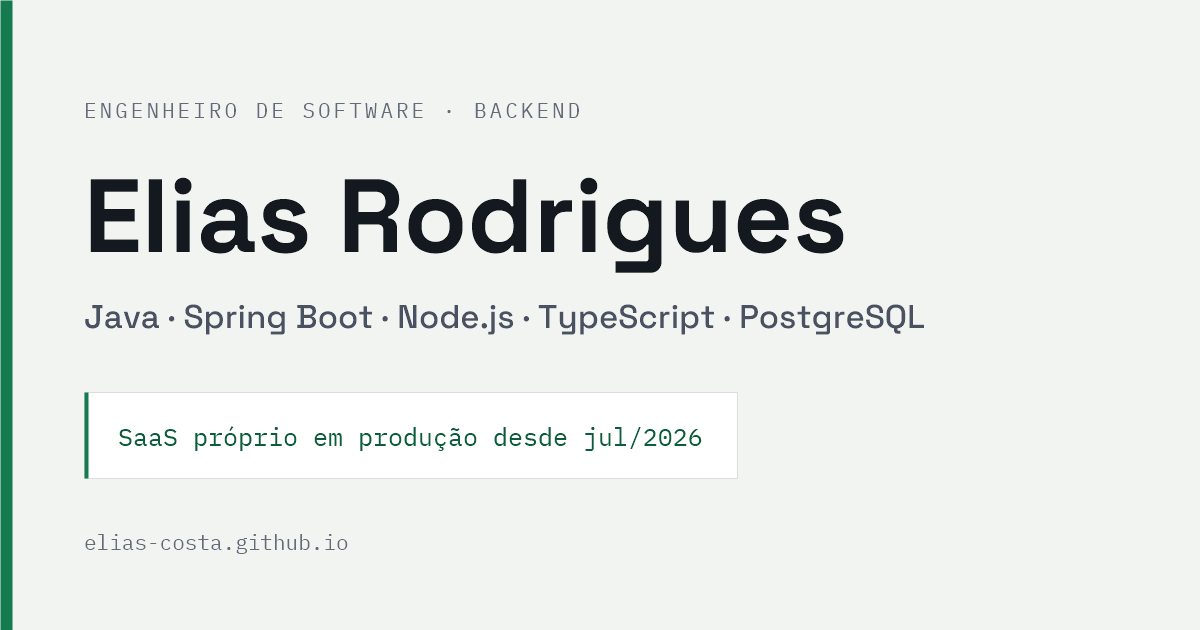
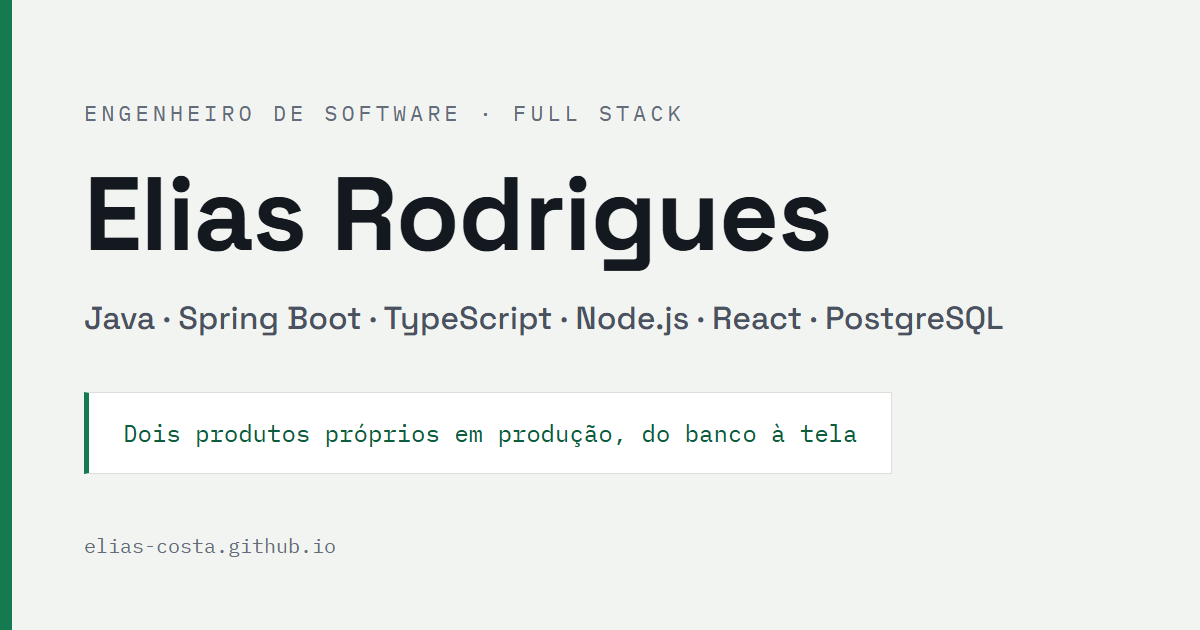
feat: posicionamento full stack, case do Fichinhas e card do invoice-microservices

diff --git a/index.html b/index.html
@@ -3,8 +3,8 @@
 <head>
 <meta charset="UTF-8">
 <meta name="viewport" content="width=device-width, initial-scale=1.0">
-<title>Elias Rodrigues — Engenheiro de Software, Backend</title>
-<meta name="description" content="Elias Rodrigues, engenheiro de software backend. Java, Spring Boot, Node.js, TypeScript e PostgreSQL. Sistemas em produção. Disponível para início imediato em posições remotas.">
+<title>Elias Rodrigues — Engenheiro de Software, Full Stack</title>
+<meta name="description" content="Elias Rodrigues, engenheiro de software full stack. Java, Spring Boot, TypeScript, Node.js, React e PostgreSQL. Produtos completos em produção, do banco à tela. Disponível para início imediato em posições remotas.">
 <link rel="canonical" href="https://elias-costa.github.io/">
 
 <!-- Open Graph / Twitter: controla o preview quando o link é compartilhado (LinkedIn, WhatsApp) -->
@@ -12,17 +12,17 @@
 <meta property="og:locale" content="pt_BR">
 <meta property="og:url" content="https://elias-costa.github.io/">
 <meta property="og:site_name" content="Elias Rodrigues">
-<meta property="og:title" content="Elias Rodrigues — Engenheiro de Software, Backend">
-<meta property="og:description" content="Java, Spring Boot, Node.js, TypeScript e PostgreSQL. APIs e sistemas em produção, um SaaS próprio no ar. Disponível para início imediato, remoto.">
+<meta property="og:title" content="Elias Rodrigues — Engenheiro de Software, Full Stack">
+<meta property="og:description" content="Java, Spring Boot, TypeScript, Node.js, React e PostgreSQL. Produtos completos em produção, do banco à tela — um SaaS e um PWA offline-first próprios. Disponível para início imediato, remoto.">
 <!-- og:image precisa de URL absoluta: raspador de rede social não resolve caminho relativo -->
 <meta property="og:image" content="https://elias-costa.github.io/og-image.png">
 <meta property="og:image:type" content="image/png">
 <meta property="og:image:width" content="1200">
 <meta property="og:image:height" content="630">
-<meta property="og:image:alt" content="Elias Rodrigues — Engenheiro de Software, Backend. Java, Spring Boot, Node.js, TypeScript e PostgreSQL.">
+<meta property="og:image:alt" content="Elias Rodrigues — Engenheiro de Software, Full Stack. Java, Spring Boot, TypeScript, Node.js, React e PostgreSQL.">
 <meta name="twitter:card" content="summary_large_image">
-<meta name="twitter:title" content="Elias Rodrigues — Engenheiro de Software, Backend">
-<meta name="twitter:description" content="Java, Spring Boot, Node.js, TypeScript e PostgreSQL. APIs e sistemas em produção, um SaaS próprio no ar.">
+<meta name="twitter:title" content="Elias Rodrigues — Engenheiro de Software, Full Stack">
+<meta name="twitter:description" content="Java, Spring Boot, TypeScript, Node.js, React e PostgreSQL. Produtos completos em produção, do banco à tela — um SaaS e um PWA offline-first próprios.">
 
 <!-- JSON-LD: dados estruturados para o Google ligar nome, cargo, formação e perfis
      (LinkedIn, GitHub) a este site na busca pelo nome. O nome de registro é o
@@ -42,8 +42,8 @@
       "url": "https://elias-costa.github.io/",
       "image": "https://elias-costa.github.io/og-image.png",
       "email": "mailto:ecrprofessional@gmail.com",
-      "jobTitle": "Engenheiro de Software Backend",
-      "description": "Engenheiro de software backend. Java, Spring Boot, Node.js, TypeScript e PostgreSQL. Bacharel em Ciência da Computação pela UFS, mantém o SiteHealth, um SaaS de monitoramento de sites em produção. Disponível para início imediato em posições remotas.",
+      "jobTitle": "Engenheiro de Software Full Stack",
+      "description": "Engenheiro de software full stack. Java, Spring Boot, TypeScript, Node.js, React e PostgreSQL. Bacharel em Ciência da Computação pela UFS, mantém produtos próprios em produção: o SiteHealth, SaaS de monitoramento de sites, e o Fichinhas, PWA offline-first de controle de fiado. Disponível para início imediato em posições remotas.",
       "address": {
         "@type": "PostalAddress",
         "addressLocality": "Aracaju",
@@ -62,8 +62,9 @@
         "credentialCategory": "certificate"
       },
       "knowsAbout": [
-        "Java", "Spring Boot", "Node.js", "TypeScript", "PostgreSQL", "Python", "FastAPI",
-        "APIs REST", "Row Level Security", "RBAC", "Docker", "AWS", "PyTorch", "Machine Learning"
+        "Java", "Spring Boot", "Node.js", "TypeScript", "React", "Next.js", "PostgreSQL",
+        "Apache Kafka", "Python", "FastAPI", "APIs REST", "Progressive Web Apps", "Offline-first",
+        "Row Level Security", "RBAC", "Microsserviços", "Docker", "AWS", "PyTorch", "Machine Learning"
       ],
       "knowsLanguage": ["pt-BR", "en"],
       "sameAs": [
@@ -88,6 +89,37 @@
       "applicationCategory": "WebApplication",
       "operatingSystem": "Web",
       "description": "SaaS de monitoramento técnico de sites: crawl periódico e relatório por e-mail dos problemas que afetam SEO e experiência do usuário — links e imagens quebrados, conteúdo misto, bloqueio de indexação, certificado e domínio a vencer.",
+      "author": { "@id": "https://elias-costa.github.io/#person" }
+    },
+    {
+      "@type": "SoftwareSourceCode",
+      "@id": "https://github.com/Elias-Costa/controle-estoque-gastos#code",
+      "name": "Fichinhas — controle de fiado offline-first",
+      "codeRepository": "https://github.com/Elias-Costa/controle-estoque-gastos",
+      "programmingLanguage": "TypeScript",
+      "runtimePlatform": "Progressive Web App",
+      "license": "https://opensource.org/licenses/MIT",
+      "description": "PWA offline-first que substitui o caderno de fiado de quem revende cosméticos por conta própria. React, Tailwind, Dexie (IndexedDB) e Supabase; toda escrita nasce no aparelho e sobe por fila idempotente; dinheiro em bigint de centavos; invariantes e isolamento por conta valendo no próprio Postgres.",
+      "author": { "@id": "https://elias-costa.github.io/#person" }
+    },
+    {
+      "@type": "SoftwareSourceCode",
+      "@id": "https://github.com/Elias-Costa/invoice-microservices#code",
+      "name": "invoice-microservices — emissão de notas fiscais em microsserviços",
+      "codeRepository": "https://github.com/Elias-Costa/invoice-microservices",
+      "programmingLanguage": "Java",
+      "runtimePlatform": "Spring Boot 4",
+      "description": "Emissão de notas fiscais em microsserviços: um banco por serviço, Apache Kafka, Saga coordenada por outbox transacional, idempotência HTTP por Idempotency-Key e guarda contra evento reprocessado, provados contra Postgres e Kafka reais via Testcontainers.",
+      "author": { "@id": "https://elias-costa.github.io/#person" }
+    },
+    {
+      "@type": "SoftwareSourceCode",
+      "@id": "https://github.com/Elias-Costa/caixa-simples#code",
+      "name": "Caixa Simples — PDV multi-tenant",
+      "codeRepository": "https://github.com/Elias-Costa/caixa-simples",
+      "programmingLanguage": "Java",
+      "runtimePlatform": "Spring Boot 4",
+      "description": "Sistema de caixa e ponto de venda para pequenos negócios, construído como monolito modular com Spring Modulith e PostgreSQL.",
       "author": { "@id": "https://elias-costa.github.io/#person" }
     },
     {
@@ -134,6 +166,7 @@
       <li><a href="#sobre">Sobre</a></li>
       <li><a href="#experiencia">Experiência</a></li>
       <li><a href="#sitehealth">SiteHealth</a></li>
+      <li><a href="#fichinhas">Fichinhas</a></li>
       <li><a href="#projetos">Projetos</a></li>
       <li><a href="#stack">Stack</a></li>
       <li><a href="#contato">Contato</a></li>
@@ -146,17 +179,17 @@
 
   <section class="hero">
     <div class="wrap">
-      <div class="eyebrow">Engenheiro de Software · Backend</div>
+      <div class="eyebrow">Engenheiro de Software · Full Stack</div>
       <h1>Elias Rodrigues</h1>
-      <p class="role">Java · Spring Boot · Node.js · TypeScript · PostgreSQL</p>
+      <p class="role">Java · Spring Boot · TypeScript · Node.js · React · PostgreSQL</p>
 
-      <div class="signature">SaaS próprio em produção desde jul/2026 <span class="muted">—</span> arquitetura, segurança e operação minhas</div>
-      <p class="sig-caption">SiteHealth · monitoramento técnico de sites</p>
+      <div class="signature">Dois produtos próprios em produção, do banco à tela <span class="muted">—</span> arquitetura e operação minhas</div>
+      <p class="sig-caption">SiteHealth · SaaS de monitoramento de sites &nbsp;·&nbsp; Fichinhas · PWA offline-first de controle de fiado</p>
 
-      <p class="lead">Bacharel em Ciência da Computação pela UFS. Construo APIs e sistemas que rodam em produção — regras de negócio, controle de acesso por papéis, consistência transacional e performance. Disponível para início imediato em posições remotas.</p>
+      <p class="lead">Bacharel em Ciência da Computação pela UFS. Construo produtos completos que rodam em produção — da modelagem do banco e das regras de negócio à interface que o usuário toca. Minha base é backend: controle de acesso por papéis, consistência transacional, performance. Disponível para início imediato em posições remotas.</p>
 
       <div class="cta-row">
-        <a href="#sitehealth" class="btn btn-solid">Ver o projeto em destaque</a>
+        <a href="#sitehealth" class="btn btn-solid">Ver os projetos em destaque</a>
         <a href="#contato" class="btn btn-outline">Contato</a>
       </div>
     </div>
@@ -168,9 +201,9 @@
       <h2>Quem eu sou</h2>
       <div class="sobre-grid">
         <div>
-          <p>Sou bacharel em Ciência da Computação pela Universidade Federal de Sergipe — concluí a grade curricular em julho de 2026 e colo grau em agosto. Meu foco é backend: construí APIs e sistemas em produção com Java, Node.js e Python, com atenção a consistência de dados, controle de acesso e performance.</p>
+          <p>Sou bacharel em Ciência da Computação pela Universidade Federal de Sergipe — colei grau em agosto de 2026. Minha base é backend: construí APIs e sistemas em produção com Java, Node.js e Python, com atenção a consistência de dados, controle de acesso e performance. O frontend veio pelos produtos próprios — Next.js e React no SiteHealth, React e PWA no Fichinhas — e hoje faz parte do que entrego de ponta a ponta.</p>
           <p>Antes disso, passei dois anos como pesquisador de Iniciação Científica (PIBIC) em Machine Learning — implementei e treinei modelos com PyTorch, construí pipelines de dados e sou coautor de artigo publicado na ERBASE 2025. Foi ali que aprendi a medir antes de concluir, hábito que carreguei para o desenvolvimento.</p>
-          <p>Hoje mantenho o SiteHealth, um SaaS que monitora sites e está no ar. É onde tomo as decisões de arquitetura, segurança e operação de ponta a ponta — e onde os erros são meus para descobrir e corrigir.</p>
+          <p>Hoje mantenho dois produtos próprios em produção: o SiteHealth, um SaaS que monitora sites, e o Fichinhas, um PWA offline-first que substituiu o caderno de fiado de uma revendedora. São onde tomo as decisões de produto, arquitetura, segurança, interface e operação de ponta a ponta — e onde os erros são meus para descobrir e corrigir.</p>
         </div>
         <ul class="facts">
           <li><span>Localização</span><span>Aracaju, SE — Brasil</span></li>
@@ -229,7 +262,7 @@
 
   <section id="sitehealth">
     <div class="wrap reveal">
-      <div class="kicker">Projeto em destaque</div>
+      <div class="kicker">Projeto em destaque · SaaS</div>
       <h2>SiteHealth</h2>
 
       <div class="case-head">
@@ -237,12 +270,13 @@
         <span class="badge badge-live">no ar · pré-lançamento</span>
       </div>
 
-      <p class="case-intro">Faz crawl periódico dos sites cadastrados e envia por e-mail um relatório priorizado dos problemas que afetam SEO e experiência do usuário: links e imagens quebrados, conteúdo misto, bloqueio acidental de indexação, certificado e domínio prestes a vencer. É <strong>produto próprio</strong> — eu decido produto, arquitetura, segurança e operação, e é o projeto onde consigo mostrar decisão técnica com evidência, não só código.</p>
+      <p class="case-intro">Faz crawl periódico dos sites cadastrados e envia por e-mail um relatório priorizado dos problemas que afetam SEO e experiência do usuário: links e imagens quebrados, conteúdo misto, bloqueio acidental de indexação, certificado e domínio prestes a vencer. É <strong>produto próprio</strong> — eu decido produto, arquitetura, segurança, interface e operação, e é o projeto onde consigo mostrar decisão técnica com evidência, não só código.</p>
 
       <div class="tags">
-        <span class="tag">Next.js (App Router)</span><span class="tag">TypeScript</span><span class="tag">PostgreSQL</span>
-        <span class="tag">Supabase + RLS</span><span class="tag">Inngest</span><span class="tag">Stripe</span>
-        <span class="tag">Resend</span><span class="tag">Sentry</span><span class="tag">Vercel</span>
+        <span class="tag">Next.js (App Router)</span><span class="tag">React</span><span class="tag">TypeScript</span>
+        <span class="tag">Tailwind CSS</span><span class="tag">PostgreSQL</span><span class="tag">Supabase + RLS</span>
+        <span class="tag">Inngest</span><span class="tag">Stripe</span><span class="tag">Resend</span>
+        <span class="tag">Sentry</span><span class="tag">Vercel</span>
       </div>
 
       <div class="metrics">
@@ -297,10 +331,101 @@
     </div>
   </section>
 
+  <section id="fichinhas">
+    <div class="wrap reveal">
+      <div class="kicker">Projeto em destaque · PWA offline-first</div>
+      <h2>Fichinhas</h2>
+
+      <div class="case-head">
+        <h3>Controle de fiado que substitui o caderno de uma revendedora</h3>
+        <span class="badge badge-live">em uso real · set/2026</span>
+      </div>
+
+      <p class="case-intro">Quem revende cosméticos por conta própria vende fiado e anota num caderno: uma página por cliente, valores descontados conforme o dinheiro chega, contas que não fecham. O Fichinhas é um PWA instalado na tela de início do celular que faz isso funcionar <strong>sem depender de rede</strong> — o sinal falha exatamente quando se está com a cliente na frente, e uma tela de erro ali é o que faz voltar para o papel. Produto próprio, do banco à tela, construído para uma revendedora real: as telas foram desenhadas contra um protótipo cronometrado com ela, e o app está instalado no iPhone dela, com dado real, desde setembro.</p>
+
+      <div class="tags">
+        <span class="tag">React 19</span><span class="tag">TypeScript</span><span class="tag">Tailwind CSS</span>
+        <span class="tag">Vite</span><span class="tag">PWA</span><span class="tag">Dexie (IndexedDB)</span>
+        <span class="tag">Supabase (Postgres + RLS)</span><span class="tag">Bun</span><span class="tag">Playwright</span>
+      </div>
+
+      <div class="metrics">
+        <div class="metric">
+          <div class="num">425</div>
+          <div class="label">testes: 395 de unidade, 25 contra o Postgres real, 5 no Chromium contra o build</div>
+        </div>
+        <div class="metric">
+          <div class="num">51</div>
+          <div class="label">decisões registradas, com a alternativa rejeitada e o porquê</div>
+        </div>
+        <div class="metric">
+          <div class="num">8</div>
+          <div class="label">falhas eliminatórias, cada uma com mecanismo e prova</div>
+        </div>
+        <div class="metric">
+          <div class="num">3 toques</div>
+          <div class="label">para registrar um recebimento — 14 s no protótipo cronometrado com a usuária</div>
+        </div>
+      </div>
+
+      <div class="decisions">
+        <div class="decision">
+          <h4>Offline-first: toda escrita nasce no aparelho, com id e tudo</h4>
+          <p>Cada operação gera um UUIDv7 no dispositivo, grava no IndexedDB e enfileira o envio <strong>na mesma transação</strong> — uma linha sem item na fila não existe. O mesmo id é a chave do <code>upsert</code> na nuvem, então reenviar é seguro por construção. O motor de sincronização roda ao lado, nunca é aguardado por tela nenhuma e não consulta <code>navigator.onLine</code>: ao sair do modo avião o iOS diz <code>true</code> e o <code>fetch</code> morre com <code>Load failed</code> — medido no aparelho antes de escrever o sistema. Provado no Chromium contra o build de produção: venda com a rede desligada que sobrevive a recarregar, reenvio que não duplica, dois aparelhos que convergem, base apagada que volta da nuvem.</p>
+        </div>
+
+        <div class="decision">
+          <h4>Dinheiro é <code>bigint</code> de centavos, e quem guarda é o compilador</h4>
+          <p><code>total * 0.9</code> não compila; <code>total / 3n</code> é divisão inteira com o resto visível. Na borda, onde <code>number</code> volta a ser legítimo, o lint reprova <code>parseFloat</code>, <code>Number</code>, <code>Math</code> e <code>toFixed</code> dentro do domínio — e há um teste que prova que o lint morde. Dividir em parcelas não é divisão, é repartição: R$ 100 em 3× vira <strong>33,40 | 33,30 | 33,30</strong>, múltiplos de 5 centavos porque o troco em dinheiro vivo anda de 5 em 5, com a primeira parcela carregando a diferença. Testes verificados por mutação: sem o piso ao múltiplo de 5, seis falham.</p>
+        </div>
+
+        <div class="decision">
+          <h4>Saldo derivado, nunca guardado; lançamento imutável</h4>
+          <p>A ficha é a lista dos lançamentos e só isso — não existe campo de saldo nem marca de "parcela paga". Correção é estorno, que também é lançamento. Isso compra o estorno de graça e elimina a classe de conflito que importaria entre dois aparelhos: registros que só nascem não têm o que conflitar. A prova roda 200 fichas × 60 operações aleatórias com semente e compara o saldo a duas somas independentes após cada operação — <strong>com contador de cobertura</strong>, porque a primeira rodada exercitou só 2 quitações em 12.000 operações e passava sem testar a regra. Sete mutações, sete acusadas.</p>
+        </div>
+
+        <div class="decision">
+          <h4>As invariantes valem no Postgres, e uma suíte tenta violá-las por fora</h4>
+          <p>Soma das parcelas igual ao total, um estorno por alvo, estorno que não se estorna, <code>UPDATE</code> que só passa se nada mudar — tudo constraint e gatilho, com o nome da constraint sendo o motivo em código que a fila recebe. Isolamento por conta é RLS com o dono carimbado pelo próprio banco (<code>default auth.uid()</code>), e <strong>as chaves estrangeiras são compostas com o dono</strong>, porque a verificação de FK ignora RLS: sem isso, uma conta apontaria para o cliente de outra sabendo o id. 17 testes por conexão direta, cada violação num <code>savepoint</code>, zero linhas deixadas; cinco mutações no esquema, todas acusadas.</p>
+        </div>
+      </div>
+
+      <div class="case-note">
+        <p><strong>A falha que nenhum teste automatizado detecta:</strong> lançar ser mais lento que a caneta. Por isso o primeiro código foi um protótipo descartável, cronometrado com a usuária antes de qualquer tela de produção — recebimento em 14 s e 3 toques, venda de dois itens em 48 s — e tudo o que entrou depois fica atrás de um toque, fora do caminho medido. Cada palavra das telas é registrada como hipótese até ser observada com ela: na primeira visita com o app real, ela registrou uma venda e um recebimento sozinha, na primeira tentativa, e voltou com oito pedidos que viraram a etapa seguinte.</p>
+      </div>
+
+      <div class="case-foot">
+        <a href="https://github.com/Elias-Costa/controle-estoque-gastos" class="case-link" target="_blank" rel="noopener">código no GitHub →</a>
+        <span class="note">MIT · sem link público: a base guarda dado financeiro de terceiros</span>
+      </div>
+    </div>
+  </section>
+
   <section id="projetos">
     <div class="wrap reveal">
       <div class="kicker">Portfólio</div>
       <h2>Outros projetos</h2>
+
+      <div class="card card-wide">
+        <div class="card-top">
+          <h3>invoice-microservices — emissão de notas fiscais em microsserviços</h3>
+          <span class="badge badge-neutral">em desenvolvimento</span>
+        </div>
+        <div class="tags">
+          <span class="tag">Java 21</span><span class="tag">Spring Boot 4</span><span class="tag">Apache Kafka</span>
+          <span class="tag">PostgreSQL</span><span class="tag">Angular</span><span class="tag">Testcontainers</span>
+          <span class="tag">Docker Compose</span>
+        </div>
+        <div class="card-wide-body">
+          <p>Dois serviços — estoque e faturamento — com um banco cada, consulta síncrona entre eles e toda mudança de estado por evento, com o fechamento da nota como Saga coordenada por outbox. Comecei pela fundação que os serviços compartilham, antes de qualquer regra de negócio, porque é onde mora o que nenhum deles pode errar: erros em Problem Details (RFC 9457), idempotência HTTP, outbox transacional e guarda contra evento reprocessado. Cada peça tem o contrato provado contra Postgres e Kafka reais via Testcontainers — 120 testes verdes — e cada decisão está registrada num log numerado ou em ADR. Os serviços e o frontend em Angular vêm em seguida.</p>
+          <ul class="card-points">
+            <li><strong>Outbox transacional provada contra Kafka real.</strong> O evento é gravado na transação do caso de uso e publicado por um poller com <code>FOR UPDATE SKIP LOCKED</code>: escrever fora de transação é recusado, rollback não deixa evento, a ordem por chave é preservada e um evento abandonado após N falhas não prende os demais.</li>
+            <li><strong>Idempotência HTTP por <code>Idempotency-Key</code>, escopada por usuário e rota.</strong> Mesmo corpo devolve a resposta guardada, comparada como JSON e não como bytes; corpo diferente é 422, chave em voo é 409, e erro do servidor libera a chave para o cliente tentar de novo.</li>
+            <li><strong>Consumidor que não reprocessa.</strong> Entrega duplicada é aplicada uma vez; se o efeito falha, a marca é desfeita junto e a reentrega é processada. Regra de negócio violada vai direto ao DLT, sem retry — o resto tenta cinco vezes com backoff.</li>
+          </ul>
+        </div>
+        <a href="https://github.com/Elias-Costa/invoice-microservices" class="card-link" target="_blank" rel="noopener">código no GitHub →</a>
+      </div>
 
       <div class="card card-wide">
         <div class="card-top">
@@ -364,37 +489,55 @@
       <h2>Habilidades técnicas</h2>
 
       <div class="skill-group">
-        <h4>Linguagens &amp; frameworks</h4>
+        <h4>Backend</h4>
         <div class="tags">
           <span class="tag">Java</span><span class="tag">Spring Boot</span><span class="tag">Node.js</span>
           <span class="tag">TypeScript</span><span class="tag">Python</span><span class="tag">FastAPI</span>
-          <span class="tag">APIs REST</span>
+          <span class="tag">APIs REST</span><span class="tag">Apache Kafka</span>
+        </div>
+      </div>
+      <div class="skill-group">
+        <h4>Frontend</h4>
+        <div class="tags">
+          <span class="tag">React</span><span class="tag">Next.js</span><span class="tag">Angular</span><span class="tag">Tailwind CSS</span>
+          <span class="tag">Vite</span><span class="tag">PWA (service worker, IndexedDB)</span><span class="tag">HTML/CSS</span>
         </div>
       </div>
       <div class="skill-group">
         <h4>Dados</h4>
         <div class="tags">
-          <span class="tag">PostgreSQL</span><span class="tag">MongoDB</span><span class="tag">SQL</span><span class="tag">SQLAlchemy</span>
+          <span class="tag">PostgreSQL</span><span class="tag">MongoDB</span><span class="tag">SQL</span>
+          <span class="tag">SQLAlchemy</span><span class="tag">Supabase</span>
         </div>
       </div>
       <div class="skill-group">
         <h4>Segurança &amp; arquitetura</h4>
         <div class="tags">
           <span class="tag">RBAC</span><span class="tag">autenticação JWT</span><span class="tag">Row Level Security</span>
-          <span class="tag">lógica transacional</span><span class="tag">arquitetura em camadas</span><span class="tag">design de sistemas</span>
+          <span class="tag">lógica transacional</span><span class="tag">arquitetura em camadas</span><span class="tag">monolito modular</span>
+          <span class="tag">microsserviços</span><span class="tag">idempotência</span><span class="tag">transactional outbox</span>
+          <span class="tag">offline-first</span>
+        </div>
+      </div>
+      <div class="skill-group">
+        <h4>Testes</h4>
+        <div class="tags">
+          <span class="tag">JUnit</span><span class="tag">Testcontainers</span><span class="tag">Vitest</span>
+          <span class="tag">Playwright</span><span class="tag">integração contra banco real</span>
         </div>
       </div>
       <div class="skill-group">
         <h4>Infraestrutura &amp; ferramentas</h4>
         <div class="tags">
-          <span class="tag">Docker</span><span class="tag">Gradle</span><span class="tag">Git</span><span class="tag">GitHub</span>
-          <span class="tag">Linux</span><span class="tag">AWS (EC2, S3, RDS)</span><span class="tag">Vercel</span>
+          <span class="tag">Docker</span><span class="tag">Docker Compose</span><span class="tag">Gradle</span><span class="tag">Maven</span>
+          <span class="tag">Git</span><span class="tag">GitHub</span><span class="tag">Linux</span>
+          <span class="tag">AWS (EC2, S3, RDS)</span><span class="tag">Vercel</span>
         </div>
       </div>
       <div class="skill-group">
-        <h4>IA &amp; Machine Learning</h4>
+        <h4>Machine Learning</h4>
         <div class="tags">
-          <span class="tag">PyTorch</span><span class="tag">Scikit-learn</span><span class="tag">LLMs</span><span class="tag">Prompt Engineering</span>
+          <span class="tag">PyTorch</span><span class="tag">Scikit-learn</span>
         </div>
       </div>
     </div>
@@ -404,7 +547,7 @@
     <div class="wrap reveal">
       <div class="kicker">Contato</div>
       <h2>Vamos conversar</h2>
-      <p class="lead contato-lead">Disponível para início imediato em posições remotas de backend — Java/Spring Boot ou Node.js/TypeScript. Respondo rápido.</p>
+      <p class="lead contato-lead">Disponível para início imediato em posições remotas full stack ou backend — Java/Spring Boot, Node.js/TypeScript, React/Next.js. Respondo rápido.</p>
       <div class="contato-row">
         <a href="mailto:ecrprofessional@gmail.com" class="btn btn-solid">ecrprofessional@gmail.com</a>
         <a href="https://www.linkedin.com/in/elias-rodrigues-288450254/" class="btn btn-outline" target="_blank" rel="noopener">LinkedIn</a>

diff --git a/css/style.css b/css/style.css
@@ -230,8 +230,8 @@ a.case-link{
 a.case-link:hover{color:var(--accent-ink);}
 .case-foot .note{font-family:var(--font-mono);font-size:12.5px;color:var(--ink-faint);}
 
-/* card de largura inteira acima do grid: o projeto em Java pesa mais que os
-   dois abaixo para uma vaga de backend, e a hierarquia visual precisa dizer isso */
+/* cards de largura inteira acima do grid: os dois projetos em Java pesam mais que
+   os dois abaixo para uma vaga de backend, e a hierarquia visual precisa dizer isso */
 .card-wide{margin-bottom:22px;}
 .card-wide-body{display:grid;grid-template-columns:1fr 1.3fr;gap:28px;align-items:start;}
 .card-points{list-style:none;margin:0;padding:0;display:flex;flex-direction:column;gap:12px;}
